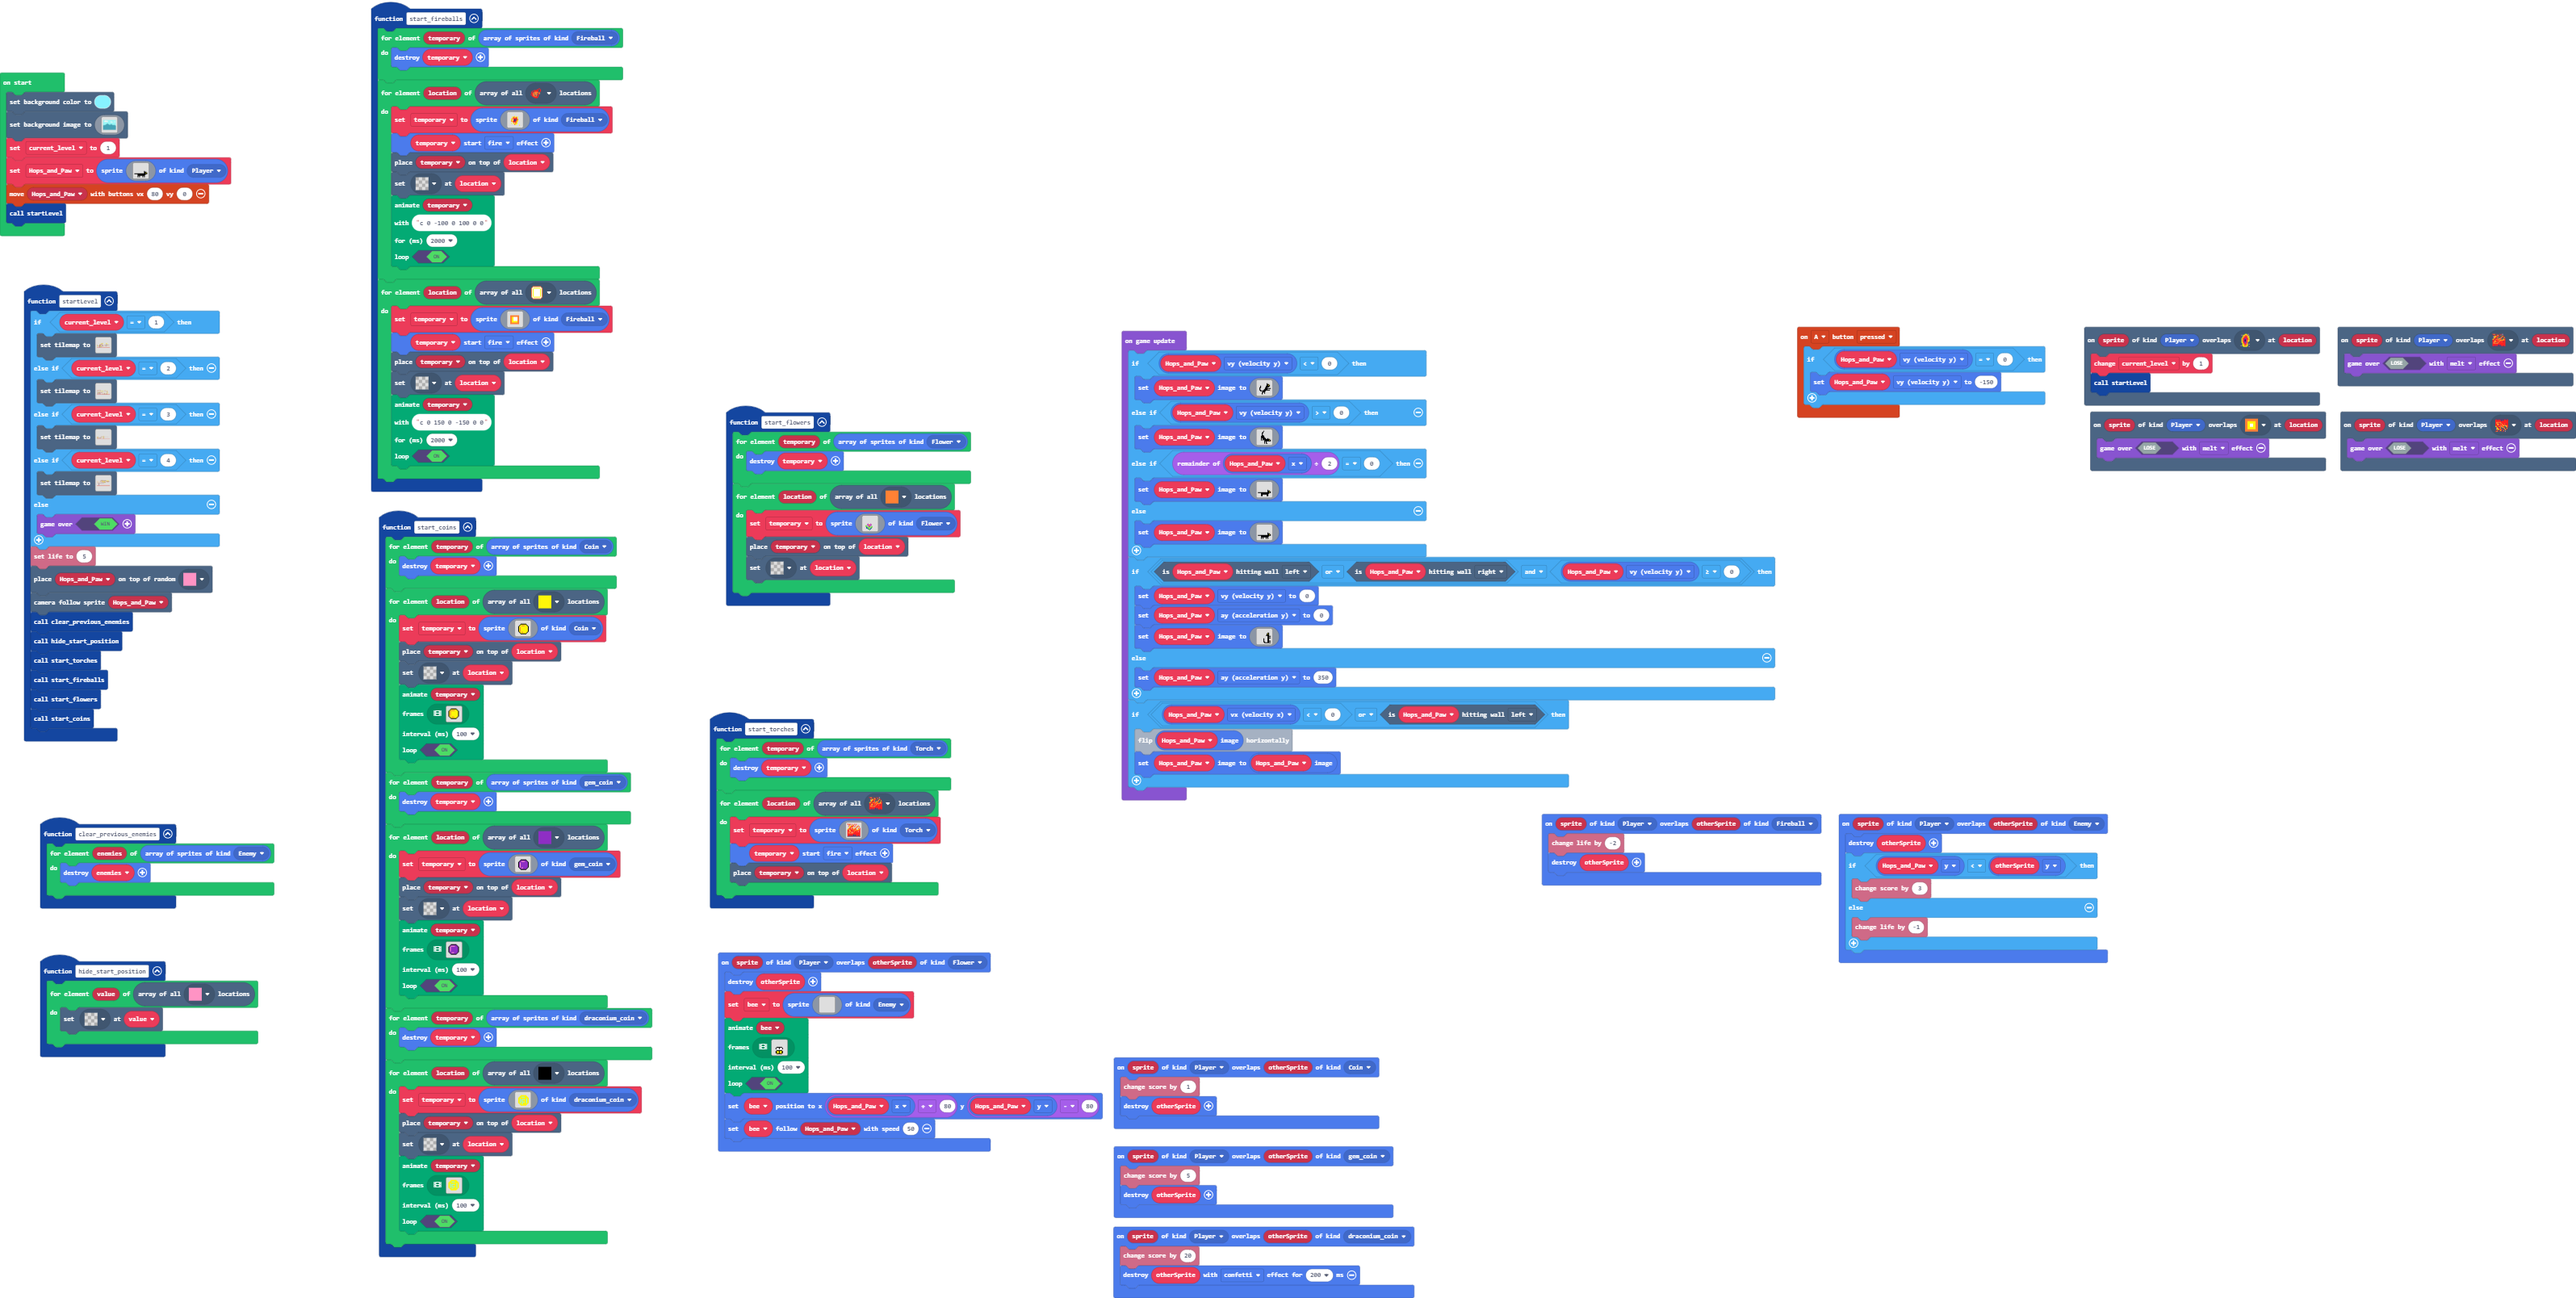
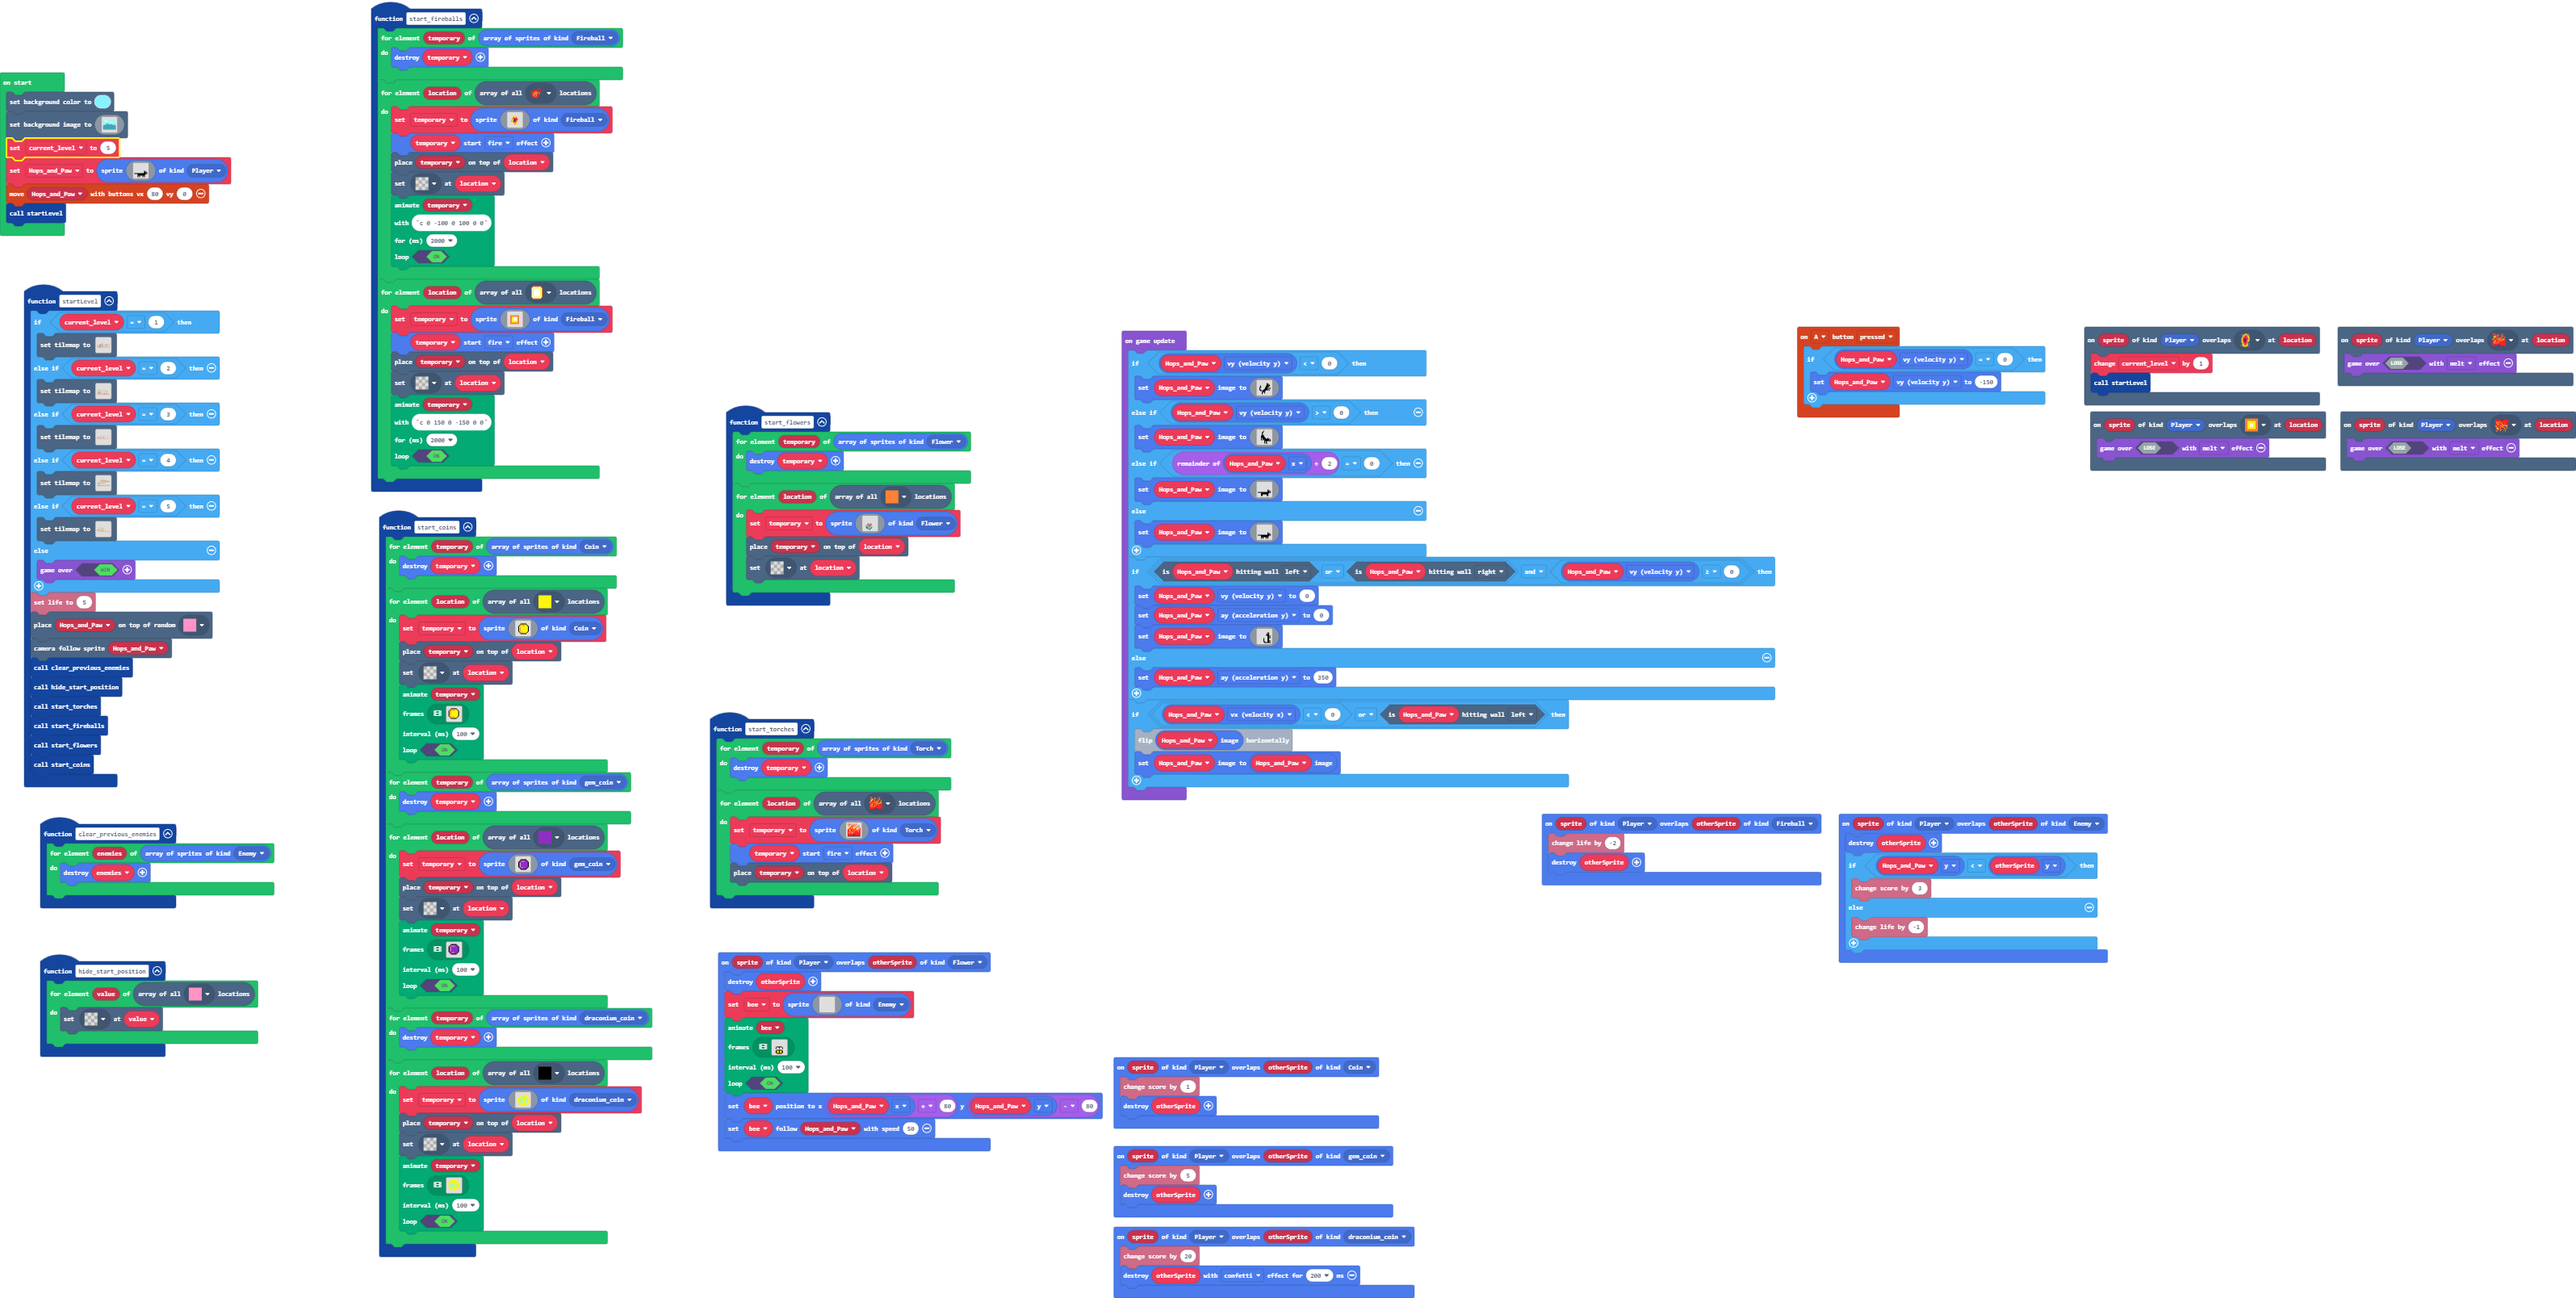
lvl 5!

diff --git a/tilemap.g.ts b/tilemap.g.ts
@@ -157,34 +157,6 @@ namespace myTiles {
 ..............................
 ..............................
 `, [myTiles.transparency16,myTiles.tile4,myTiles.tile6,myTiles.tile7,myTiles.tile11,myTiles.tile8,myTiles.tile13,myTiles.tile28,myTiles.tile29], TileScale.Sixteen);
-            case "level_0":
[1 lines of base64/hex data omitted]
-..................................................
-..................................................
-..................................................
-..................................................
-..................................................
-..................................................
-..................................................
-..................................................
-..................................................
-..................................................
-2..22222...222.2...2....2...2.....................
-..............................2...................
-................................2.................
-..................................2...22..........
-.......................................2..........
-..................................................
-........................................2.........
-..22222.22222..2....2...................2.........
-....2.............................................
-....2........................2....................
-..2222...2222........................2............
-........................2.........................
-.................................2................
-.......................................2..........
-..................................................
-`, [myTiles.tile0,myTiles.tile1,myTiles.tile2,myTiles.tile3,myTiles.tile4,myTiles.tile5,myTiles.tile6,myTiles.tile9,myTiles.tile10,myTiles.tile11,myTiles.tile8,myTiles.tile12,myTiles.tile13,myTiles.tile16,myTiles.tile18,myTiles.tile21,myTiles.tile15,myTiles.tile14,myTiles.tile24,myTiles.tile25], TileScale.Sixteen);
             case "level_3":
[1 lines of base64/hex data omitted]
 ....................................................................................................
@@ -257,6 +229,57 @@ namespace myTiles {
 ..........222.....................................
 ..........222.....................................
 `, [myTiles.tile0,myTiles.tile1,myTiles.tile3,myTiles.tile4,myTiles.tile7,myTiles.tile12,myTiles.tile13,myTiles.tile15,myTiles.tile6,myTiles.tile9,myTiles.tile8,myTiles.tile14,myTiles.tile2,myTiles.tile16,myTiles.tile17,myTiles.tile18,myTiles.tile19,myTiles.tile5,myTiles.transparency16,myTiles.tile10,myTiles.tile20,myTiles.tile25,myTiles.tile27], TileScale.Sixteen);
+            case "level_0":
[1 lines of base64/hex data omitted]
+..................................................
+..................................................
+..................................................
+..................................................
+..................................................
+..................................................
+..................................................
+..................................................
+..................................................
+..................................................
+2..22222...222.2...2....2...2.....................
+..............................2...................
+................................2.................
+..................................2...22..........
+.......................................2..........
+..................................................
+........................................2.........
+..22222.22222..2....2...................2.........
+..................................................
+.............................2....................
+..2222...2222........................2............
+........................2.........................
+.................................2................
+.......................................2..........
+..................................................
+`, [myTiles.tile0,myTiles.tile1,myTiles.tile2,myTiles.tile3,myTiles.tile4,myTiles.tile5,myTiles.tile6,myTiles.tile9,myTiles.tile10,myTiles.tile11,myTiles.tile8,myTiles.tile12,myTiles.tile13,myTiles.tile16,myTiles.tile18,myTiles.tile21,myTiles.tile15,myTiles.tile14,myTiles.tile24,myTiles.tile25], TileScale.Sixteen);
+            case "level6":
[1 lines of base64/hex data omitted]
+..................................................
+..................................................
+..................................................
+..................................................
+..................................................
+..................................................
+..................................................
+..................................................
+..................................................
+..................................................
+..................................................
+..................................................
+..................................................
+..................................................
+..................................................
+..................................................
+..................................................
+..................................................
+..................................................
+..................................................
+`, [myTiles.transparency16,myTiles.tile1,myTiles.tile2,myTiles.tile3,myTiles.tile4,myTiles.tile6,myTiles.tile9,myTiles.tile10,myTiles.tile16,myTiles.tile19,myTiles.tile22,myTiles.tile23,myTiles.tile25,myTiles.tile28,myTiles.tile29,myTiles.tile26,myTiles.tile30], TileScale.Sixteen);
         }
         return null;
     })

diff --git a/main.ts b/main.ts
@@ -790,6 +790,8 @@ function startLevel () {
         tiles.setTilemap(tilemap`level_3`)
     } else if (current_level == 4) {
         tiles.setTilemap(tilemap`level5`)
+    } else if (current_level == 5) {
+        tiles.setTilemap(tilemap`level6`)
     } else {
         game.over(true)
     }
@@ -941,7 +943,7 @@ scene.setBackgroundImage(img`
     6666666666666666666666666666666666666666666666666666666666666666666666666666666666666666666666666666666666666666666666666666666666666666666666666666666666666666
     6666666666666666666666666666666666666666666666666666666666666666666666666666666666666666666666666666666666666666666666666666666666666666666666666666666666666666
     `)
-current_level = 1
+current_level = 5
 Hops_and_Paw = sprites.create(img`
     . . . . . . . . . . . . . . . . 
     . . . . . . . . . . . . . . . . 
